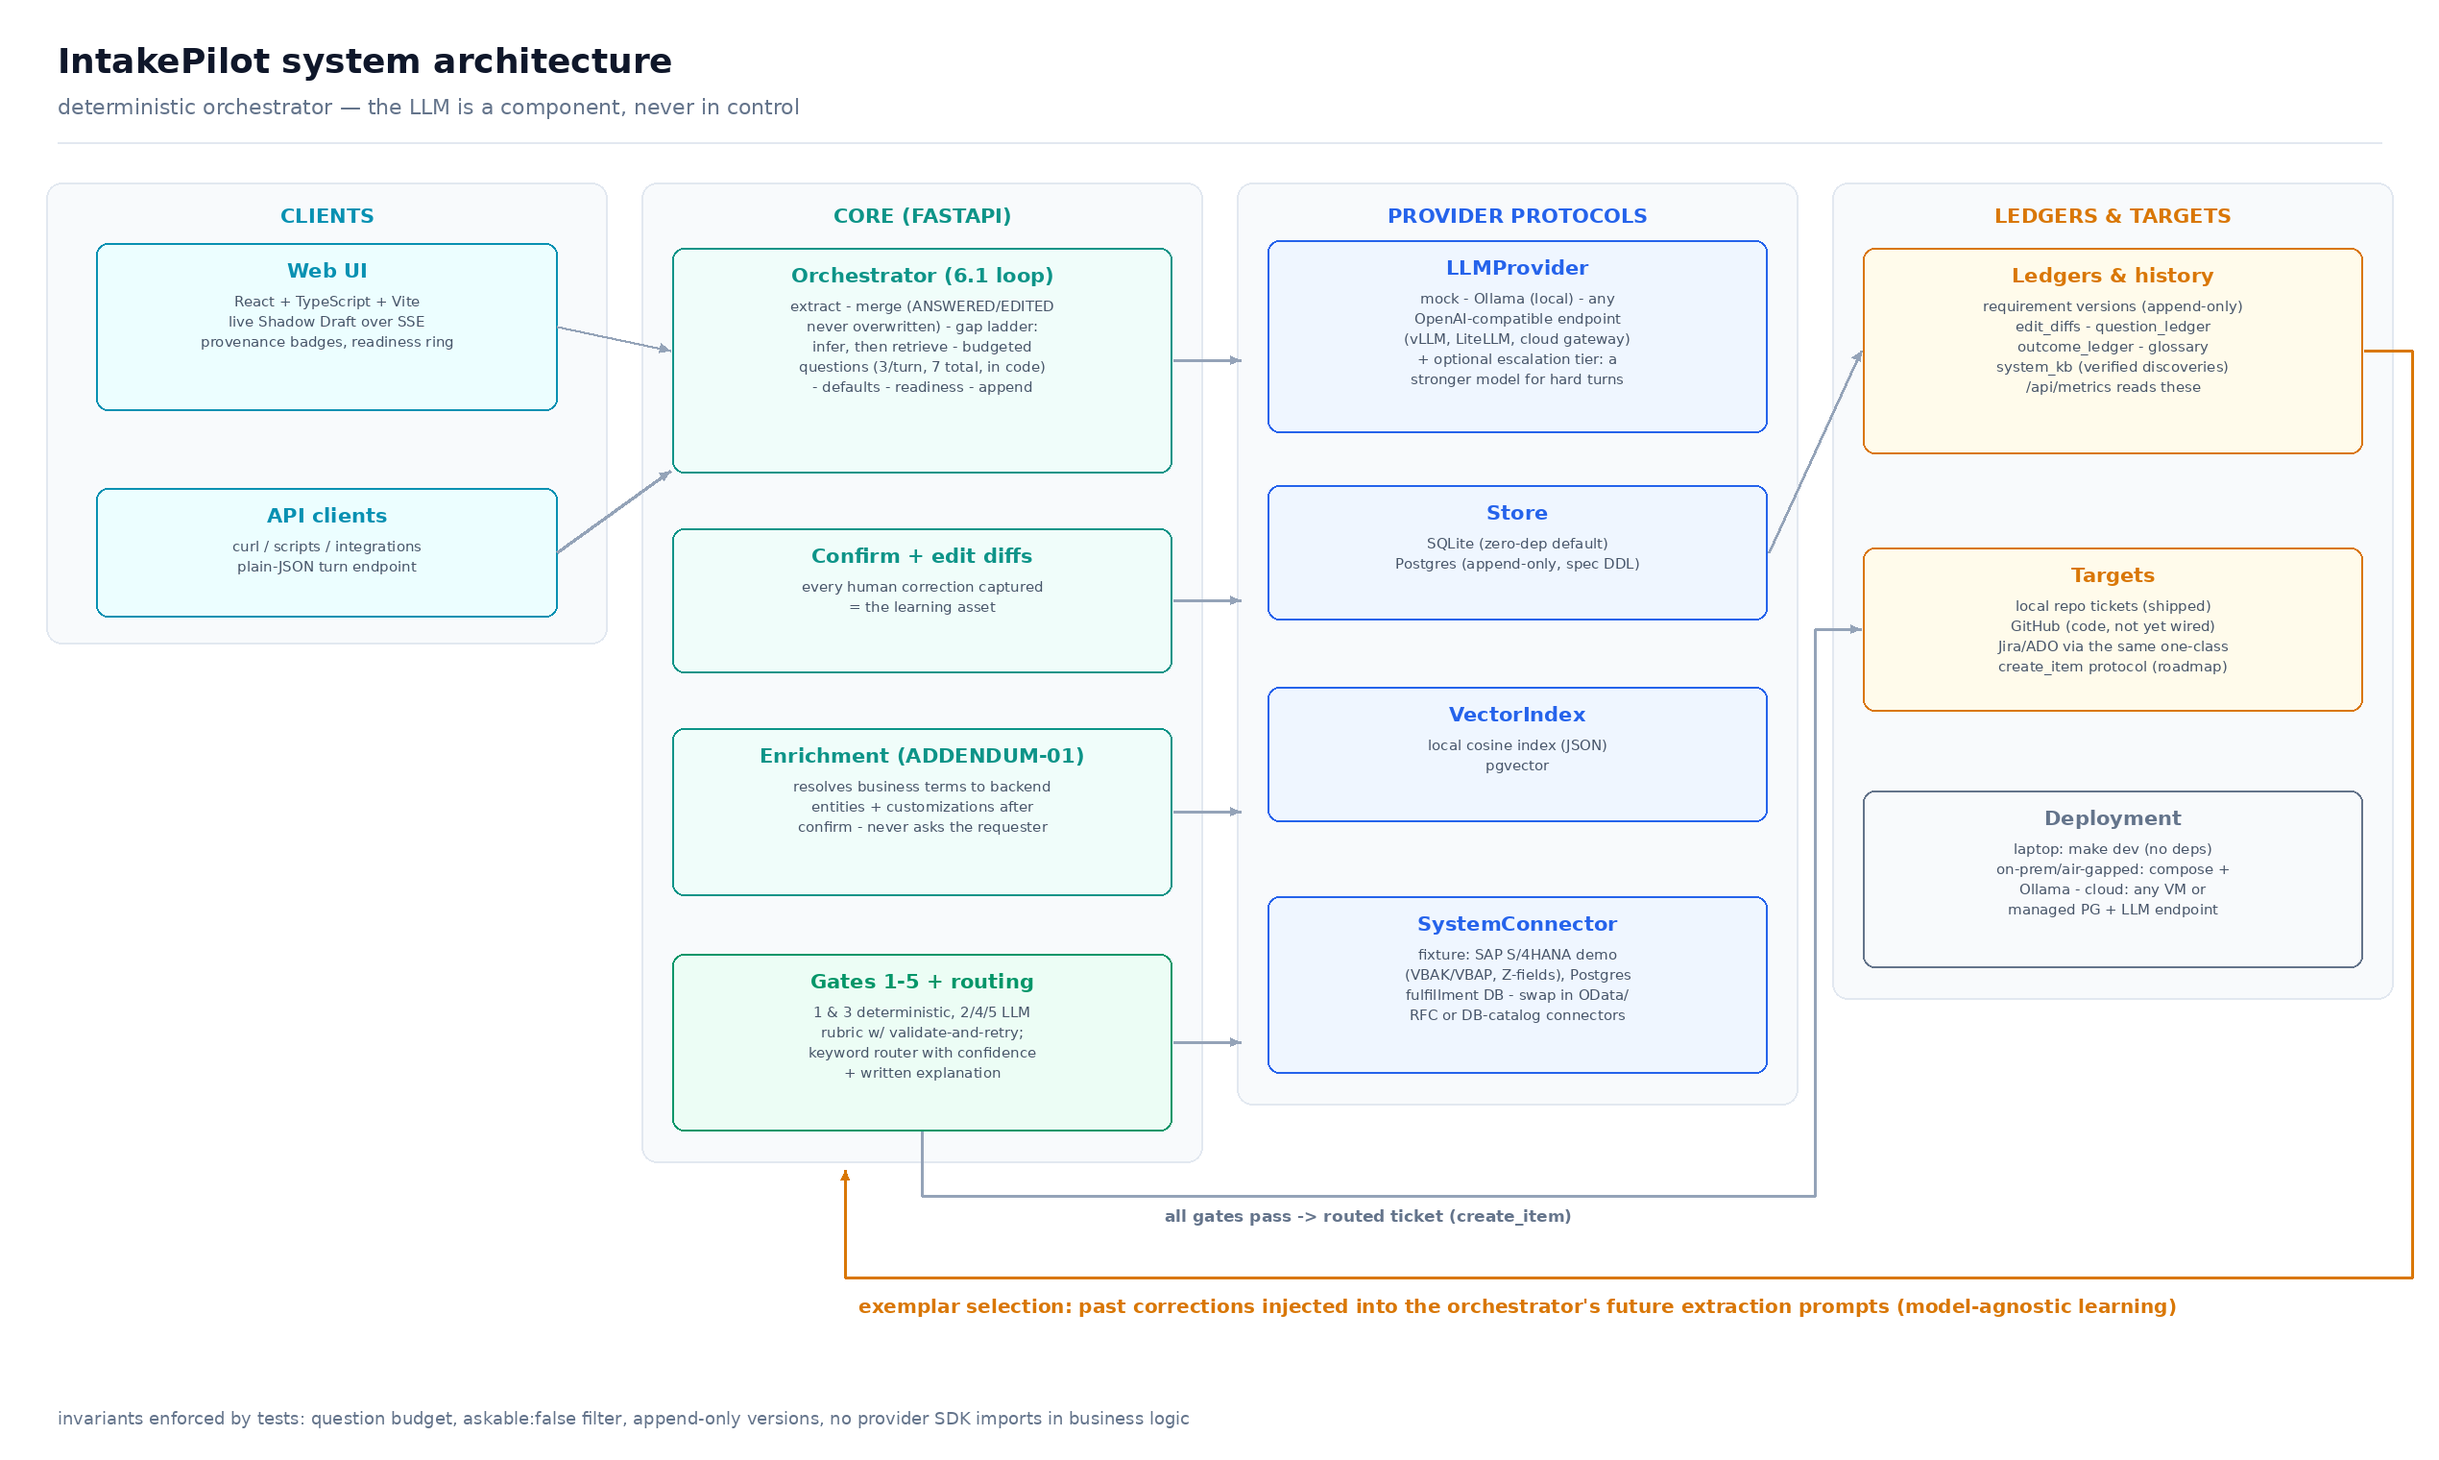
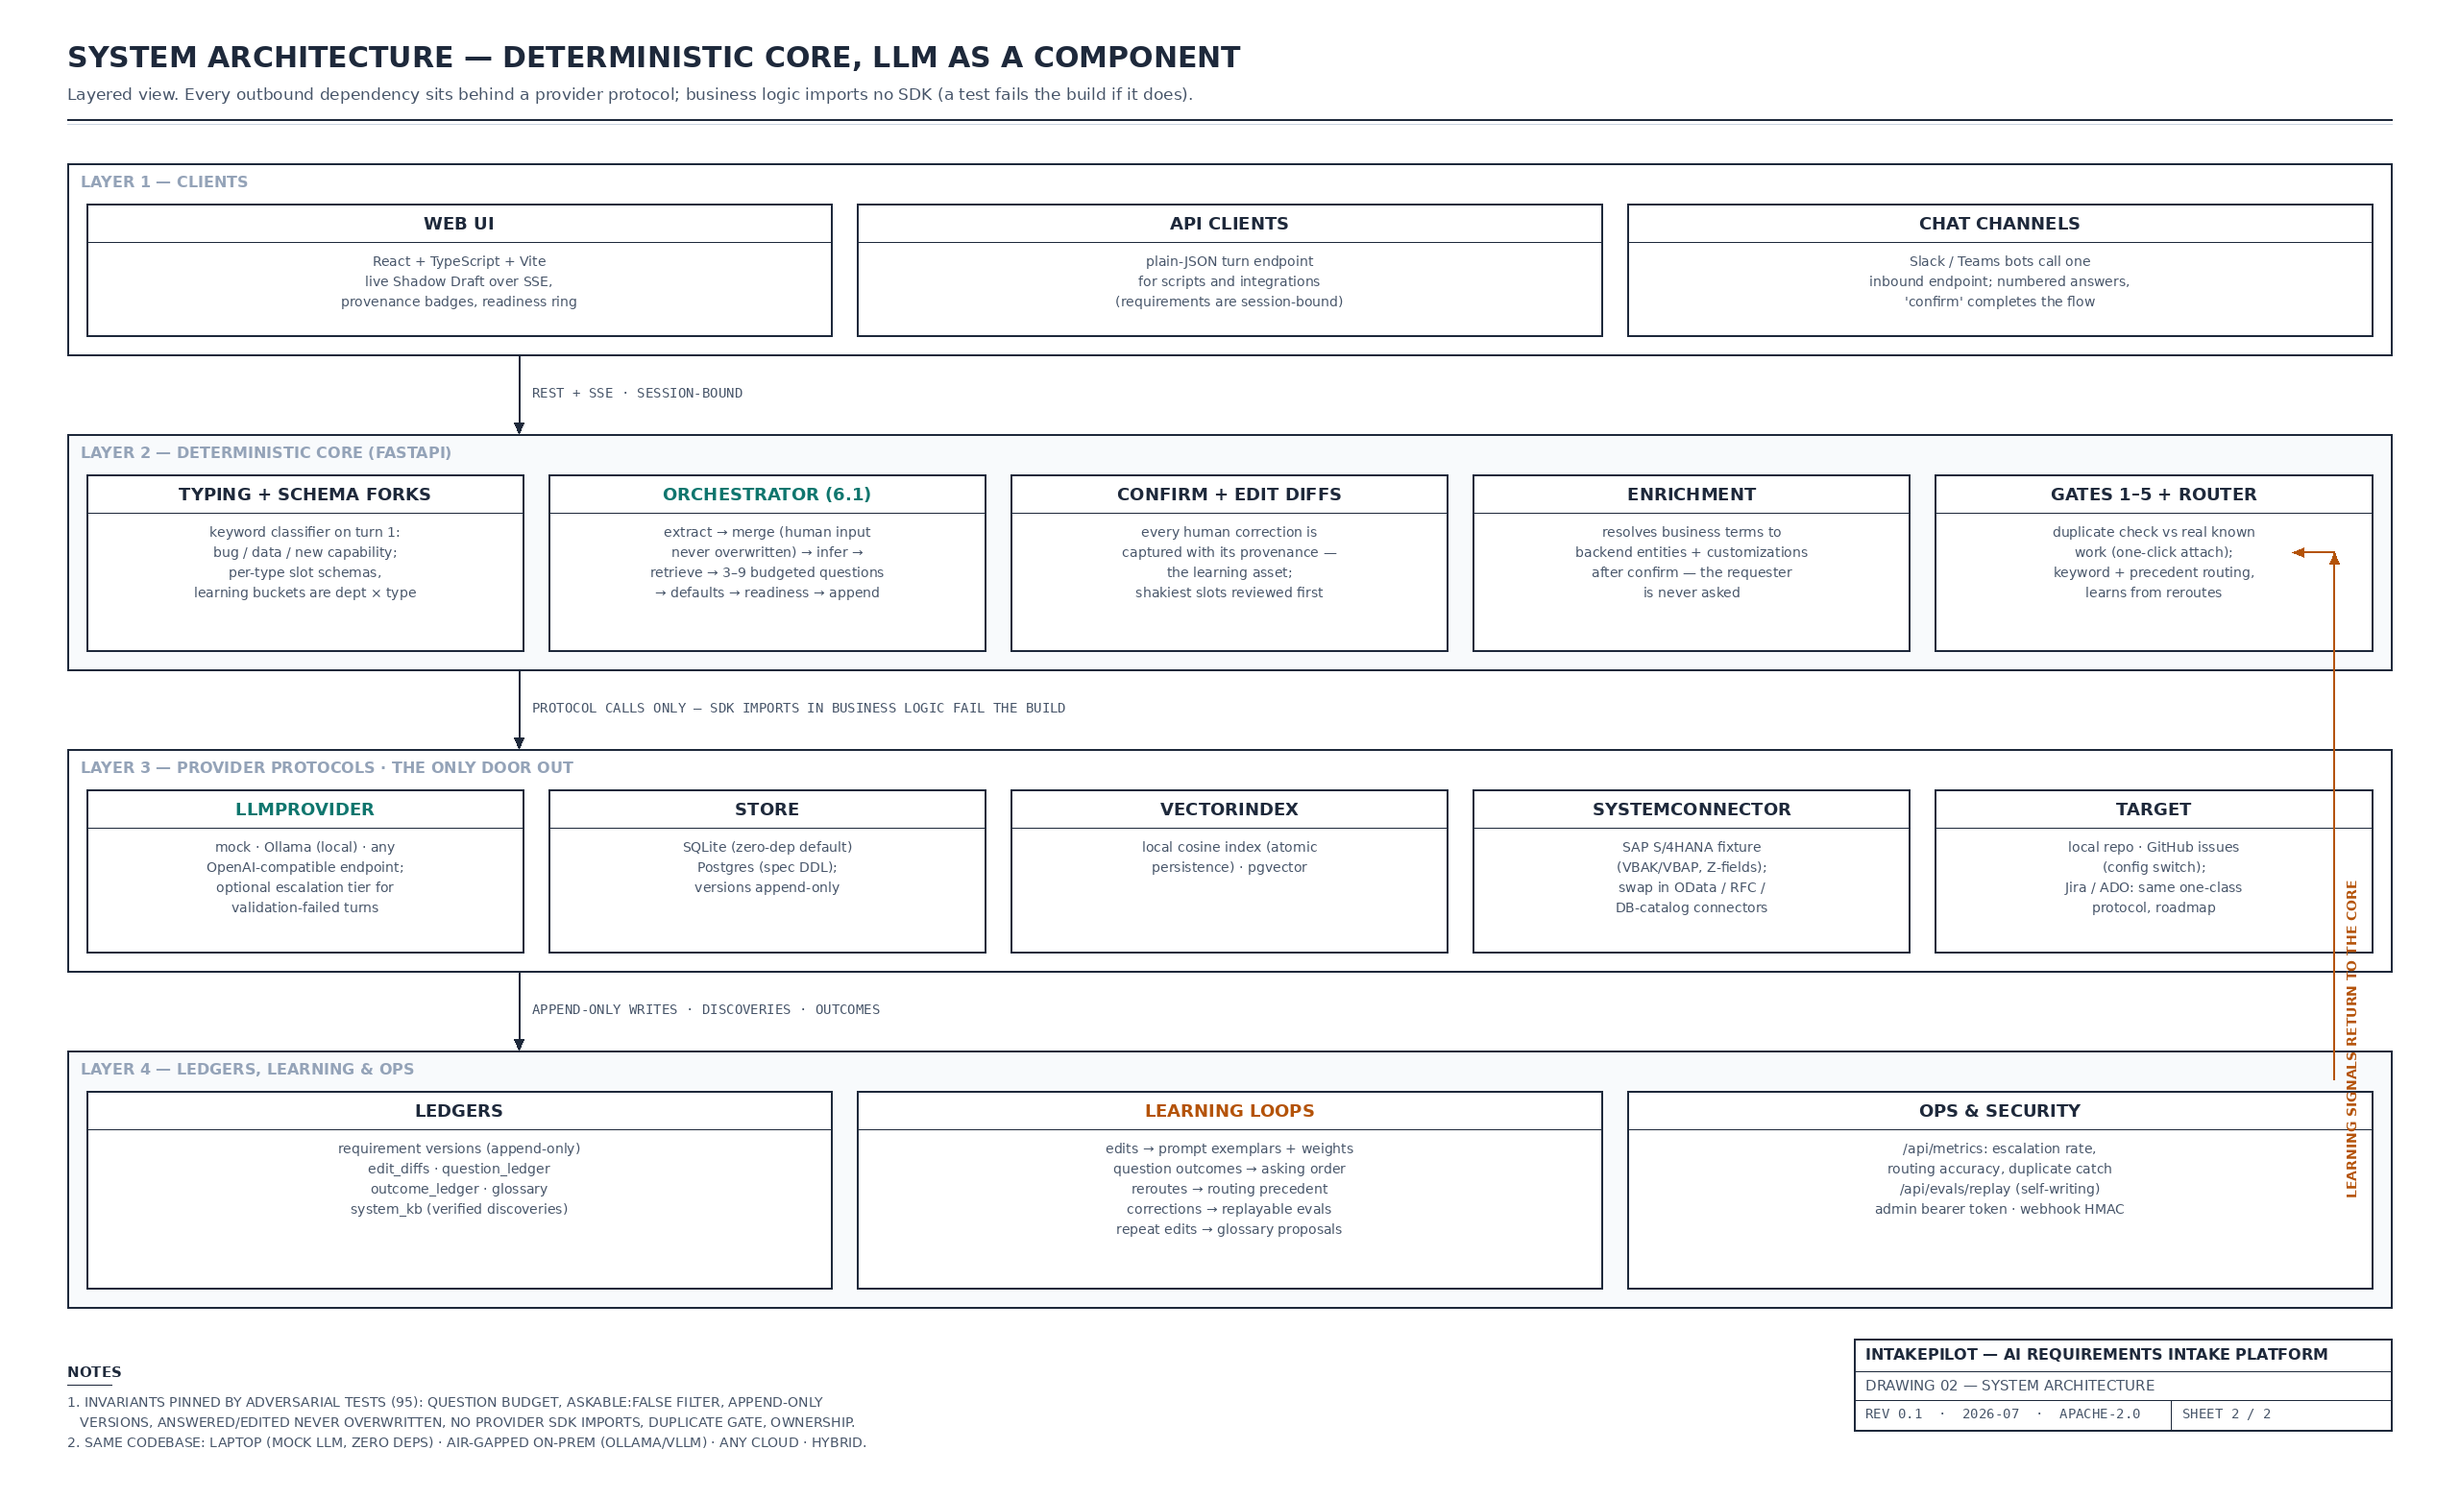
docs: architect-style drawings (sheet 1 workflow, sheet 2 layered architecture — thin ink, orthogonal connectors, notes + title blocks) and posts/README/ARCHITECTURE refreshed to current state: GitHub target wired, learning loops shipped, chat intake, schema forks, dynamic budget, 95 tests

diff --git a/docs/posts/medium-article.md b/docs/posts/medium-article.md
@@ -49,7 +49,11 @@ Every claim carries its provenance and confidence; her original words survive ve
 
 **And that edit she made?** It became an `edit_diffs` row the moment she confirmed — proposed value, corrected value, context. The next intake from a similar context gets her correction injected into its extraction prompt as an exemplar, and the discovered systems land in a knowledge ledger that pre-fills future drafts. A business analyst can sit in the loop where the org wants one — or not; smaller teams go straight to a functional reviewer. Either way the learning compounds: this is model-agnostic improvement that lives in ledgers, not fine-tuned weights, so you can swap the model tomorrow and keep every lesson. Usage is the flywheel.
 
-**Where the ticket goes next.** Today the shipped target writes tickets to a local repo (GitHub issue code exists but isn't wired yet); Jira and Azure DevOps are a one-class integration via the same `create_item` protocol, and the roadmap's Builder Agent will attach a second artifact next to the business requirement — a generated implementation scaffold — so an AI coding agent gets exactly the enriched input it needs and a developer reviews two attachments instead of decoding one vague ticket. That's the full chain: same visibility for everyone, dramatically less waiting.
+**Where the ticket goes next.** Tickets write to a local repo or straight to GitHub issues (one config switch); Jira and Azure DevOps are a one-class integration via the same `create_item` protocol, and the roadmap's Builder Agent will attach a second artifact next to the business requirement — a generated implementation scaffold — so an AI coding agent gets exactly the enriched input it needs and a developer reviews two attachments instead of decoding one vague ticket. And the flow runs backwards too: when the assigned team relabels a ticket to a different queue, a webhook feeds that correction into the routing classifier — being wrong is how it gets better.
+
+*(Diagram: the full system in one drawing — `docs/assets/architecture.png` in the repo.)*
+
+**The loops are real, not roadmap.** Every mechanism in that learning rail ships and is tested: corrections become prompt exemplars *and* recalibrate how much the readiness score trusts each kind of inference, per department. Question outcomes reorder what gets asked first. Reroutes retrain routing. Repeated identical corrections surface as glossary proposals a human can accept with one click — the system proposes vocabulary, never installs it. And the corrections ledger doubles as a self-writing eval suite: replay it against the current prompts (`/api/evals/replay`) and you get an accuracy score per slot — regression testing for prompt changes, and per-model benchmarks on *your* domain, with zero hand-written fixtures. A near-duplicate ask gets caught at gate 4 against the org's real history and offered a one-click "attach to the existing requirement" — dedup is where intake tools earn their keep. Intake itself meets people where they already are: one inbound endpoint lets a Slack or Teams bot run the whole flow — numbered answers, then the word "confirm" — while asks are typed on arrival (bug report, data request, new capability) so each gets its own slot schema and question style, and the question budget itself scales with blast radius: trivial asks earn 3 questions, cross-system deadline-driven asks earn up to 9. Enforced in code, as always.
 
 ## "But is a local model smart enough?" — the hybrid answer
 
@@ -75,7 +79,7 @@ The same logic extends beyond SAP: any enterprise with deep on-prem systems and 
 
 ## Honest limits, and what's next
 
-IntakePilot is v0.1 and says so: authentication isn't built in yet (front it with your SSO proxy), the Jira target and webhook status sync are next up, and the "Builder Agent" that auto-attaches code scaffolds to tickets is specified but not shipped. What *is* shipped is tested hard — the question budget, the never-overwrite-human-input rule, append-only versioning, and the no-SDK-in-business-logic rule are all enforced by adversarial tests, including one that plays a malicious LLM.
+IntakePilot is v0.1 and says so: there's no end-user SSO yet (requirements are session-bound, every admin/ops surface closes with one bearer token, and the GitHub webhook verifies HMAC signatures — but user identity is your reverse proxy's job for now), the Jira target is next up, and the "Builder Agent" that auto-attaches code scaffolds to tickets is specified but not shipped. What *is* shipped is tested hard — 95 tests pin the invariants: the question budget, the never-overwrite-human-input rule, append-only versioning, the duplicate gate, ownership binding, and the no-SDK-in-business-logic rule, including a test where a deliberately malicious LLM tries to break the budget and can't.
 
 The architecture principle underneath it all: **the LLM is a component, never in control.** Deterministic code decides budgets, merges, gates, and routing; the model proposes, code disposes. I think that's the only way AI earns trust in enterprise workflows — and the only way the system keeps working when you swap models underneath it, which, in the age of fast-improving open weights, you will.
 

diff --git a/docs/posts/linkedin-post.md b/docs/posts/linkedin-post.md
@@ -1,6 +1,6 @@
 # LinkedIn Post
 
-*(Attach `docs/assets/workflow.png` as the image. Paste the text below as-is; LinkedIn keeps the line breaks. Add the GitHub + Medium links before posting.)*
+*(Attach BOTH drawings as images — `docs/assets/workflow.png` first, `docs/assets/architecture.png` second. Paste the text below as-is; LinkedIn keeps the line breaks. Add the GitHub + Medium links before posting.)*
 
 ---
 
@@ -16,7 +16,11 @@ The ticket that lands carries every claim with provenance + confidence, her orig
 
 And business users never get technical questions: after confirmation it auto-discovers backend context itself — in the SAP demo, "order info" resolves to VBAK/VBAP and even a custom Z-field (ZZ_PRIORITY_CODE) with its owning team.
 
-From there: optional BA pass, functional review, then your PM tool. AI coding agents are only as good as the ticket that feeds them — this makes that ticket. (Jira/ADO connector + auto-attached code scaffold: on the roadmap via the same one-class protocol.)
+From there: optional BA pass, functional review, then your PM tool — local repo or GitHub issues today, Jira/ADO via the same one-class protocol next. AI coding agents are only as good as the ticket that feeds them — this makes that ticket.
+
+And the loops close. Duplicates get caught against the org's real history and attached with one click. When a team relabels a ticket to another queue, a webhook teaches the router it was wrong. Corrections replay as a self-writing eval suite that scores extraction accuracy on YOUR data. Intake even runs inside Slack/Teams through one endpoint — answer by number, type "confirm", done. 95 tests pin every invariant.
+
+The two drawings attached are the whole system: sheet 1 is the workflow every role shares, sheet 2 is the architecture that makes it deployable anywhere — laptop, air-gapped data center, any cloud.
 
 Two design choices I refuse to compromise on:
 

diff --git a/README.md b/README.md
@@ -155,9 +155,8 @@ Implemented and verified (spec milestones 1–5 core, plus gates/routing from 6)
   `core/agents/orchestrator.py` — the spec omits one)
 - Confirmation with edit-diff capture, exemplar selection/injection (7.2)
 - Five-gate pipeline (1 & 3 deterministic; 2/4/5 LLM-rubric), routing
-  classifier with explanation, local ticket target writing to
-  `examples/demo-repo/` (a GitHub target exists in code but is not yet
-  wired into config — see PROJECT-REVIEW.md)
+  classifier with explanation, ticket targets: local repo (default) or
+  GitHub issues via `provider.target` / `INTAKEPILOT_TARGET`
 - `/api/metrics` computing Section 9 metrics from the ledgers (plus
   system-KB counts, escalation rate, duplicate catch rate, and routing
   accuracy from reroute ground truth)
@@ -189,7 +188,8 @@ Implemented and verified (spec milestones 1–5 core, plus gates/routing from 6)
 
 Spec'd for later (honest gaps):
 
-- Milestone 6 remainder: triage queue UI, GitHub webhook status sync
+- Milestone 6 remainder: triage queue UI (GitHub target + label-reroute
+  webhook are shipped; full status sync is not)
 - Milestone 7: eval harness over a 40-scenario golden set (scenario #1 ships
   in `evals/golden/` and runs as a pytest), nightly distillation jobs,
   `prompt_configs` promotion gate

diff --git a/docs/ARCHITECTURE.md b/docs/ARCHITECTURE.md
@@ -46,4 +46,4 @@ flowchart LR
 
 ## Trust boundaries and current limits
 
-The API currently ships **without authentication** — front it with your SSO/reverse proxy or keep it on an internal network (`docs/DEPLOYMENT.md`, security checklist). Multi-tenancy, Jira webhook status sync, the full 40-scenario eval harness, and the Builder Agent (the component that will attach generated code scaffolds to tickets automatically) are specified in the build spec's later milestones; `PROJECT-REVIEW.md` tracks the honest gap list.
+There is **no end-user SSO yet** — requirements are bound to their creating session (`X-Session-Id`, anti-enumeration 404s), one bearer token (`INTAKEPILOT_ADMIN_TOKEN`) closes every admin/ops surface, and the GitHub webhook verifies `X-Hub-Signature-256` — but user identity remains your reverse proxy's job (`docs/DEPLOYMENT.md`, security checklist). Multi-tenancy, the Jira/ADO target, the full 40-scenario eval harness, and the Builder Agent (the component that will attach generated code scaffolds to tickets automatically) are specified in the build spec's later milestones; `PROJECT-REVIEW.md` tracks the honest gap list.
